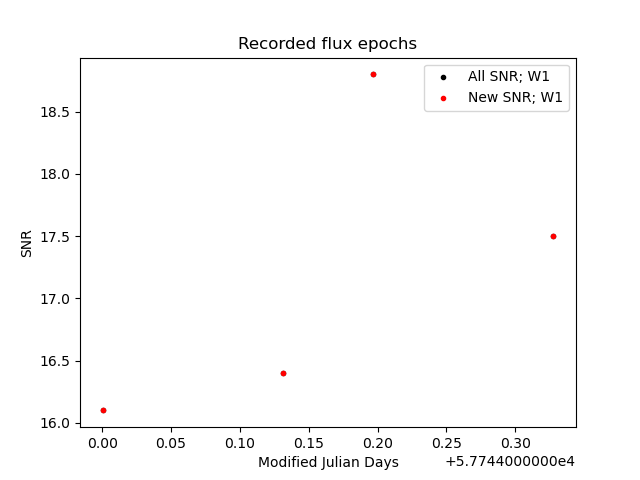
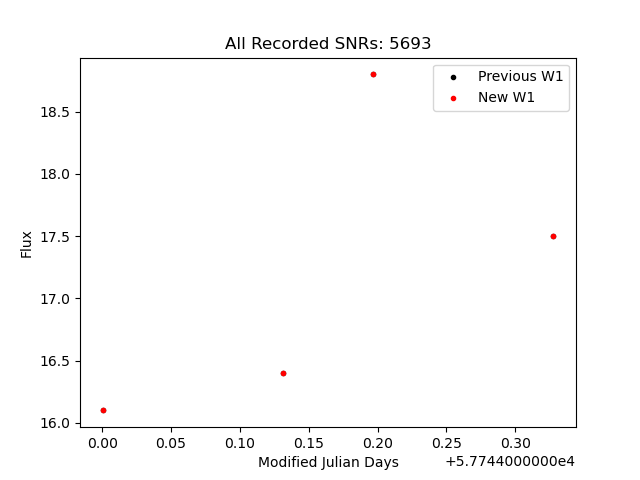
Modified plotting scheme

Changed region(s): [[0.3438, 0.0625, 0.6875, 0.125], [0.6875, 0.125, 0.875, 0.2188], [0.0312, 0.4688, 0.0625, 0.5312]]

diff --git a/mpc_wise_functions.py b/mpc_wise_functions.py
@@ -255,10 +255,12 @@ def generate_source_ids_dict(mpc_file, wise_file, bands):
 
 
 def flux_scatter(mpc_code, band):
-    new_data = Table.read(f"ne_inputs/{mpc_code}_{band}bands.tbl", format='ipac')
+    new_data = Table.read(f"new_inputs/{mpc_code}_{band}bands.tbl", format='ipac')
     mjd_new = list(new_data['mjd'])
     w1_new = list(new_data['w1flux'])
     w2_new = list(new_data['w2flux'])
+    w1_error_new = list(new_data["w1sigflux"])
+    w2_error_new = list(new_data["w2sigflux"])
     snr1_new = list(new_data["w1snr"])
     snr2_new = list(new_data["w2snr"])
 
@@ -266,48 +268,77 @@ def flux_scatter(mpc_code, band):
     mjd_all = list(all_data['mjd'])
     w1_all = list(all_data['w1flux'])
     w2_all = list(all_data['w2flux'])
+    w1_error_all = list(all_data["w1sigflux"])
+    w2_error_all = list(all_data["w2sigflux"])
     snr1_all = list(all_data["w1snr"])
     snr2_all = list(all_data["w2snr"])
 
-    for i in range(len(mjd_new)):
-        mjd_new[i] = int(mjd_new[i])
-    for i in range(len(mjd_all)):
-        mjd_all[i] = int(mjd_all[i])
-
-    plt.scatter(mjd_all, w1_all, label='All W2', marker=".", color="black")
-    plt.scatter(mjd_new, w1_new, label='New W2', marker=".", color="red")
-    plt.title("Recorded flux epochs")
+    plt.errorbar(mjd_all, w1_all, label='Previous W1', marker=".", color="black", yerr=w1_error_all, fmt='o')
+    plt.errorbar(mjd_new, w1_new, label='New W1', marker=".", color="red", yerr=w1_error_new, fmt='o')
+    plt.title(f"All Recorded Fluxes: {mpc_code}")
     plt.xlabel("Modified Julian Days")
     plt.ylabel("Flux")
     plt.legend()
     plt.savefig(f"flux_plot/{mpc_code}_W1.png")
     plt.clf()
 
-    plt.scatter(mjd_all, w2_all, label='All W2', marker=".", color="black")
-    plt.scatter(mjd_new, w2_new, label='New W2', marker=".", color="red")
-    plt.title("Recorded flux epochs")
+    plt.errorbar(mjd_all, w2_all, label='Previous W2', marker=".", color="black", yerr=w2_error_all, fmt='o')
+    plt.errorbar(mjd_new, w2_new, label='New W2', marker=".", color="red", yerr=w2_error_new, fmt='o')
+    plt.title(f"All Recorded Fluxes: {mpc_code}")
     plt.xlabel("Modified Julian Days")
     plt.ylabel("Flux")
     plt.legend()
     plt.savefig(f"flux_plot/{mpc_code}_W2.png")
     plt.clf()
 
-    plt.scatter(mjd_all, snr1_all, label='All SNR; W1', marker=".", color="black")
-    plt.scatter(mjd_new, snr1_new, label='New SNR; W1', marker=".", color="red")
-    plt.title("Recorded flux epochs")
+    plt.errorbar(mjd_new, w1_new, label='W1', marker=".", color="black", yerr=w1_error_new, fmt='o')
+    plt.title(f"New Recorded Fluxes: {mpc_code}")
+    plt.xlabel("Modified Julian Days")
+    plt.ylabel("Flux")
+    plt.legend()
+    plt.savefig(f"flux_plot/new_{mpc_code}_W1.png")
+    plt.clf()
+
+    plt.errorbar(mjd_new, w2_new, label='W2', marker=".", color="black", yerr=w2_error_new, fmt='o')
+    plt.title(f"New Recorded Fluxes: {mpc_code}")
+    plt.xlabel("Modified Julian Days")
+    plt.ylabel("Flux")
+    plt.legend()
+    plt.savefig(f"flux_plot/new_{mpc_code}_W2.png")
+    plt.clf()
+
+    plt.scatter(mjd_all, snr1_all, label='Previous W1', marker=".", color="black")
+    plt.scatter(mjd_new, snr1_new, label='New W1', marker=".", color="red")
+    plt.title(f"All Recorded SNRs: {mpc_code}")
     plt.xlabel("Modified Julian Days")
     plt.ylabel("Flux")
     plt.legend()
     plt.savefig(f"snr_plot/{mpc_code}_W1.png")
     plt.clf()
 
-    plt.scatter(mjd_all, snr2_all, label='All SNR; W2', marker=".", color="black")
-    plt.scatter(mjd_new, snr2_new, label='New SNR; W2', marker=".", color="red")
-    plt.title("Recorded flux epochs")
+    plt.scatter(mjd_new, snr1_new, label="W1", marker=".", color="red")
+    plt.title(f"New Recorded SNRs: {mpc_code}")
+    plt.xlabel("Modified Julian Days")
+    plt.ylabel("Flux")
+    plt.legend()
+    plt.savefig(f"snr_plot/new_{mpc_code}_W1.png")
+    plt.clf()
+
+    plt.scatter(mjd_all, snr2_all, label='Previous W2', marker=".", color="black")
+    plt.scatter(mjd_new, snr2_new, label='New W2', marker=".", color="red")
+    plt.title(f"All Recorded SNRs: {mpc_code}")
     plt.xlabel("Modified Julian Days")
     plt.ylabel("Flux")
     plt.legend()
     plt.savefig(f"snr_plot/{mpc_code}_W2.png")
+    plt.clf()
+
+    plt.scatter(mjd_new, snr2_new, label="W2", marker=".", color="red")
+    plt.title(f"New Recorded SNRs: {mpc_code}")
+    plt.xlabel("Modified Julian Days")
+    plt.ylabel("Flux")
+    plt.legend()
+    plt.savefig(f"snr_plot/new_{mpc_code}_W2.png")
     plt.clf()
 
 

diff --git a/test.py b/test.py
@@ -2,19 +2,13 @@ import numpy as np
 from astropy.table import Table
 import matplotlib.pyplot as plt
 
-data_object = Table.read("ne_inputs/161989_2bands.tbl", format='ipac')
+data_object = Table.read("new_inputs/2002_QF15_2bands.tbl", format='ipac')
 mjd = data_object['mjd']
 w1 = data_object['w1flux']
 w2 = data_object['w2flux']
 
-data_object2 = Table.read("mcmc_inputs/161989_2bands.tbl", format='ipac')
-mjd2 = data_object2['mjd']
-w12 = data_object2['w1flux']
-w22 = data_object2['w2flux']
-
-#plt.scatter(mjd2, w12, label='all w1')
-plt.scatter(mjd2, w22, label='all w2')
-#plt.scatter(mjd, w1, label='new w1')
-plt.scatter(mjd, w2, label='new w2')
+plt.scatter(mjd, w2, label='W2 band')
+plt.ylabel('Flux')
+plt.xlabel('MJD')
 plt.legend()
 plt.show()
